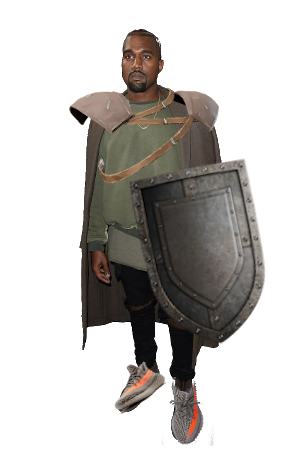
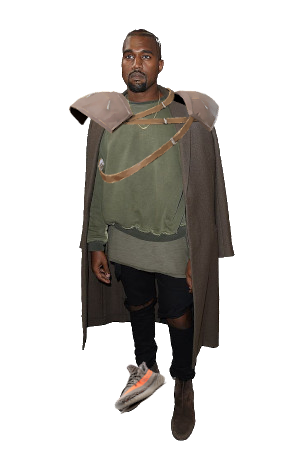
renumbered pics

Changed region(s): [[0.42, 0.343, 0.9, 0.7795], [0.57, 0.8419, 0.69, 0.9978], [0.69, 0.9666, 0.72, 0.9978]]

diff --git a/index.html b/index.html
@@ -20,12 +20,13 @@
 
 <div id='lives'> </div>
 
+<div id ='pic'> </div>
+<div class='instructions'> Hurry! Use the keyboard to guess the Kanye quote, before he gets ready for his quest!
+</div>
 
-<div class='instructions'> Guess what kanye said, using the letters above. Just click a letter, but you can only choose the wrong letter a few times!</div>
 
 
 
-
-    <script src="kanye.js"></script>
+<script src="kanye.js"></script>
 </body>
 </html>

diff --git a/kanye.js b/kanye.js
@@ -92,6 +92,7 @@ function printBtn() {
                lives --
                console.log(lives)
                document.getElementById('lives').innerHTML = `Careful! you can only get ${lives} more, wrong!`
+               document.getElementById('pic').innerHTML = `<img src='img/kanye${lives}.png'> </img>`
                checkLoss()
            } else if(lives == 0){
                checkLoss()
